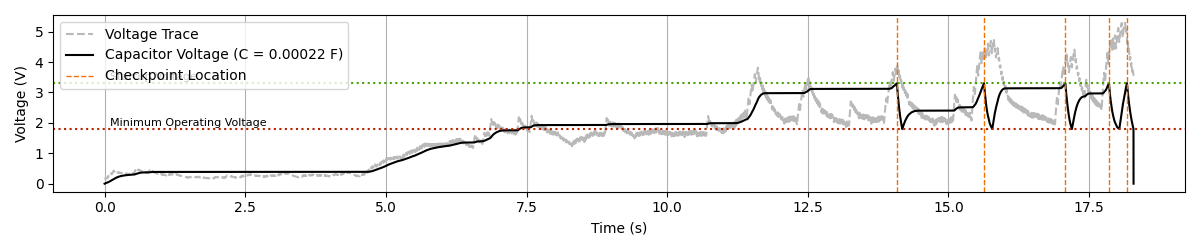
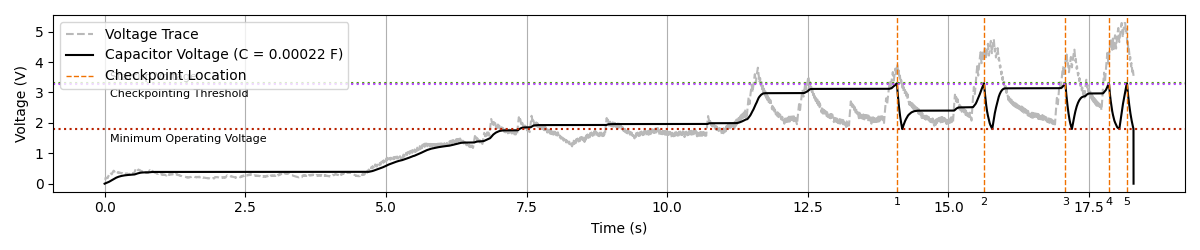
error resolved

diff --git a/camsimu.py b/camsimu.py
@@ -13,7 +13,7 @@ def parse_args():
     parser.add_argument("--total_cycles_required", type=int, default=100000, help="Total cycles required by the application (default: 100000 cycles)")
     parser.add_argument("--total_checkpoint_size", type=int, default=128, help="Total bytes required by the checkpoint in bytes (default: 128 bytes)")
     parser.add_argument("--total_restore_size", type=int, default=128, help="Total bytes required by the restore in bytes (default: 128 bytes)")
-    parser.add_argument("--trace", type=str, default='\traces\RF_2.csv', help="CSV file path for voltage values (default: '\traces\RF_2.csv')")
+    parser.add_argument("--trace", type=str, default='traces/RF_2.csv', help="CSV file path for voltage values (default: '\traces\RF_2.csv')")
     parser.add_argument("--mcu", type=str, default="stm32l152re", help="MCU name for the experiment (e.g., stm32l152re)")
     parser.add_argument("--g", action='store_true', help="Generate graphs if this flag is set")
 
@@ -126,19 +126,25 @@ def simulate_for_capacitor(C):
         # Adding vertical lines for V_discharge_start and V_cutoff
         plt.axhline(y=V_discharge_start, color='#48A300', linestyle='dotted')
         plt.axhline(y=V_cutoff, color='#B82100', linestyle='dotted')
+        plt.axhline(y=V_check_thres, color='#B748FF', linestyle='dotted')
 
         # Adding text labels for the lines
         plt.text(x=0.1, y=V_discharge_start + 0.04, s='Startup Voltage', color='black', verticalalignment='bottom', fontsize=8)
-        plt.text(x=0.1, y=V_cutoff + 0.04, s='Minimum Operating Voltage', color='black', verticalalignment='bottom', fontsize=8)
+        plt.text(x=0.1, y=V_cutoff - 0.5, s='Minimum Operating Voltage', color='black', verticalalignment='bottom', fontsize=8)
+        plt.text(x=0.1, y=V_check_thres - 0.5, s='Checkpointing Threshold', color='black', verticalalignment='bottom', fontsize=8)
 
         # Adding orange vertical lines at each discharge point
         label_added = False
-        for t in charging_states:
+        for idx, t in enumerate(charging_states):
             if not label_added:
                 plt.axvline(x=t, color='#F07100', linestyle='--', linewidth=1, label='Checkpoint Location')
+                plt.text(x=t, y=plt.ylim()[1] * -0.08, s=str(idx + 1), color='black', verticalalignment='top',
+                     horizontalalignment='center', fontsize=8)
                 label_added = True
             else:
                 plt.axvline(x=t, color='#F07100', linestyle='--', linewidth=1)
+                plt.text(x=t, y=plt.ylim()[1] * -0.08, s=str(idx + 1), color='black', verticalalignment='top',
+                     horizontalalignment='center', fontsize=8)
 
         plt.xlabel('Time (s)')
         plt.ylabel('Voltage (V)')
